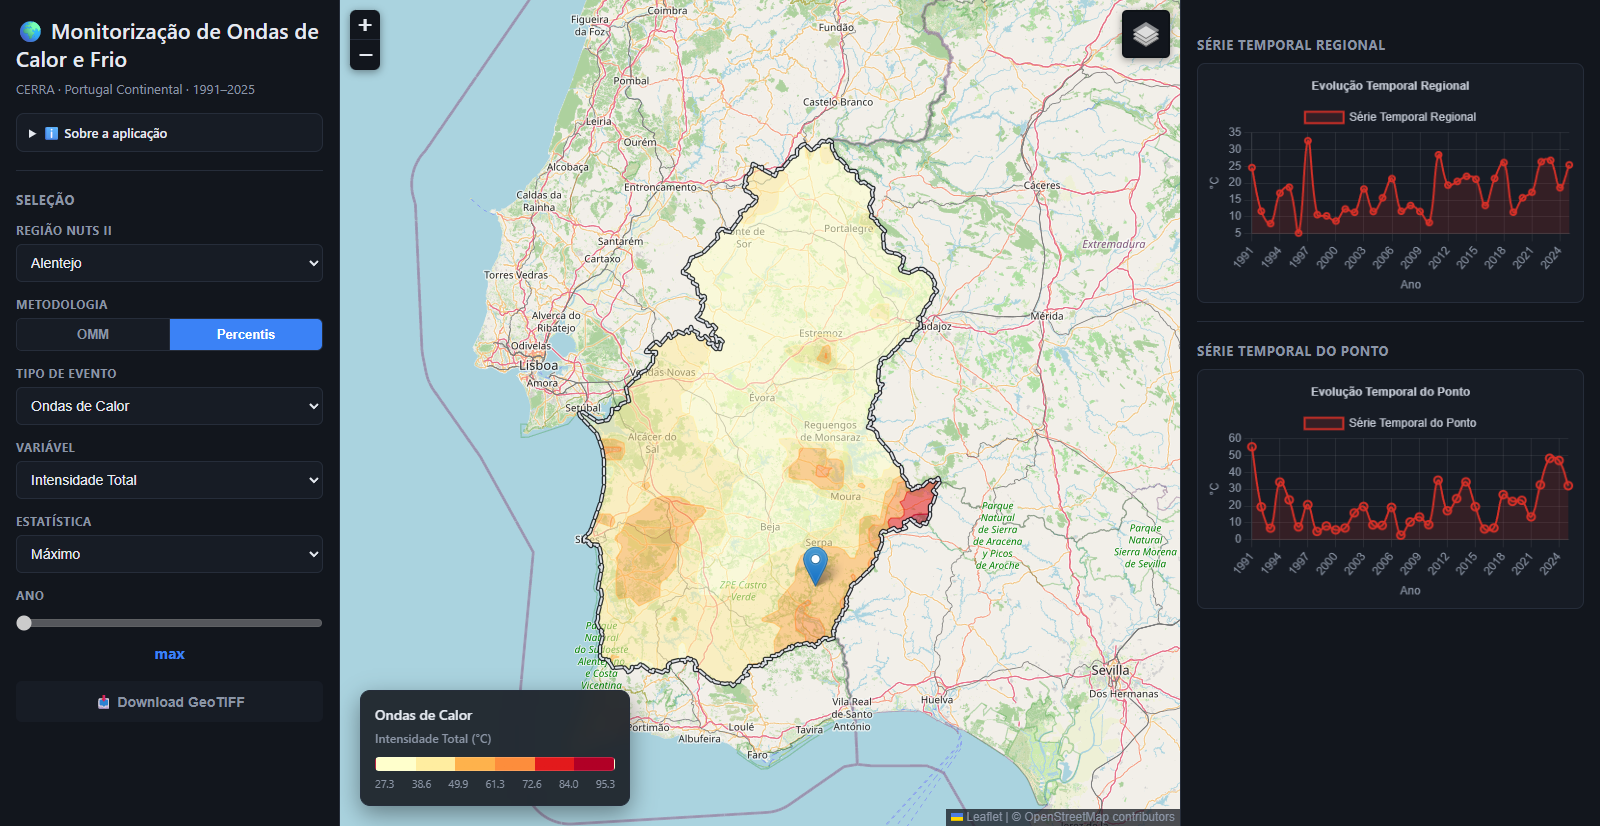
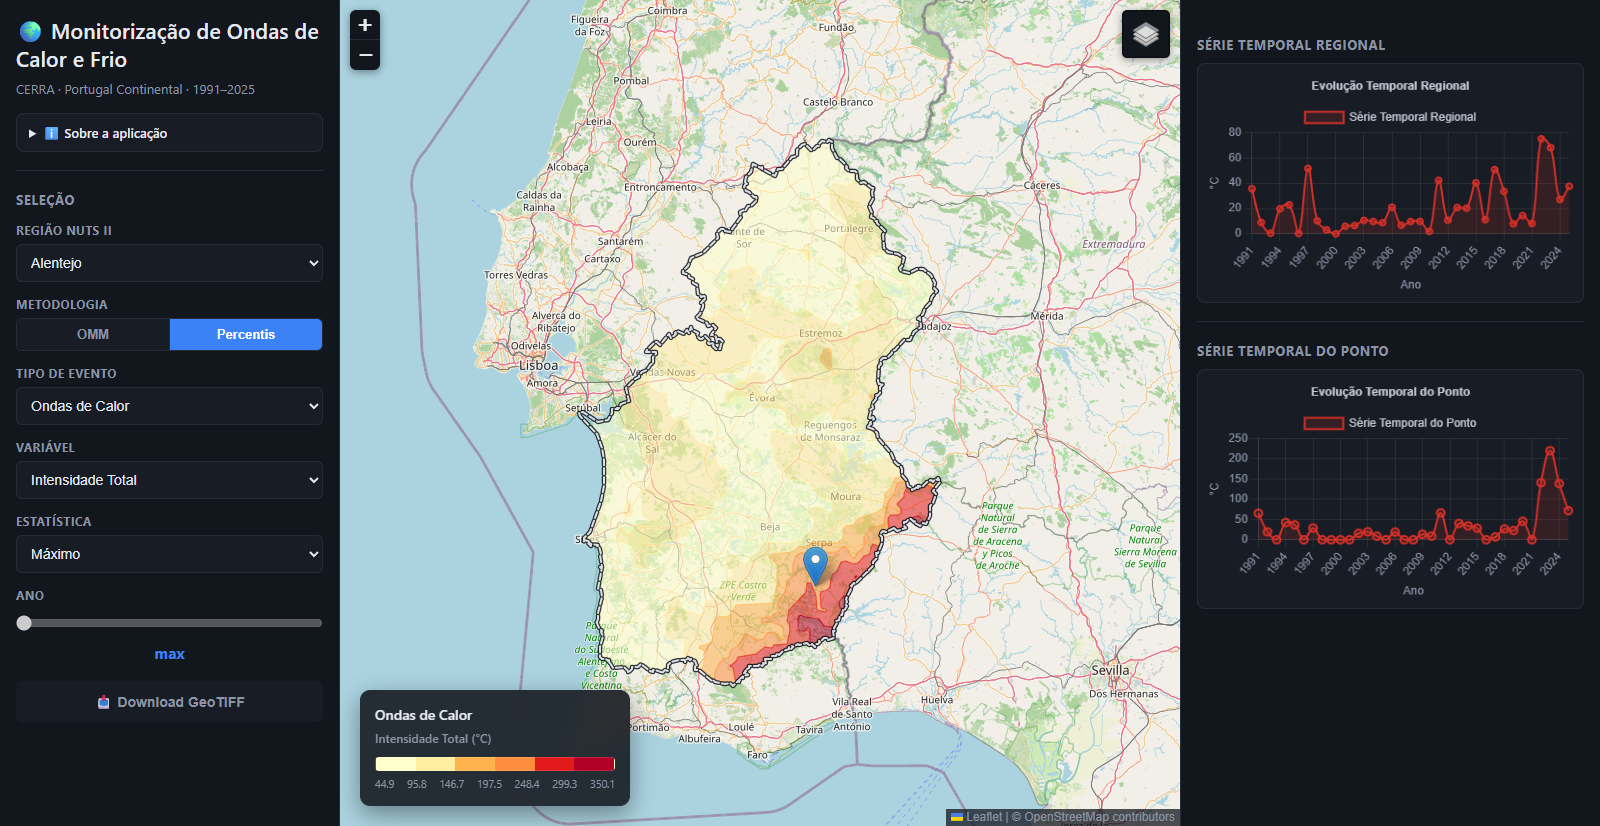
Retake screenshots after the land-mask fix; explain "Sem ondas"
Screenshots retaken from the updated demo (land-only data, neutral
"Sem ondas" colour, aligned intensidade_total). The Grande Lisboa
caption now explains the neutral areas and the gaps in its charts; a
feature bullet notes that "no waves" is shown distinct from zero.

diff --git a/README.md b/README.md
@@ -21,8 +21,10 @@ entre 1991 e 2025, a partir dos dados de reanálise **CERRA**
 **Ondas de frio (OMM) — intensidade máxima em 1998, Grande Lisboa**
 ![Ondas de frio, Grande Lisboa](images/cold-lisboa.png)
 
-Nos gráficos, a falha em 2002 é intencional: nesse ano não houve
-ondas de frio OMM, por isso a intensidade não existe (não é zero).
+A intensidade máxima só existe onde houve ondas: as zonas a
+cinzento-esverdeado não tiveram ondas de frio nesse ano, e nos gráficos
+os anos sem ondas aparecem como falhas — a intensidade não existe, não
+é zero. A água excluída (estuário do Tejo) fica sem cor.
 
 **Ondas de calor (Percentis) — intensidade total, máximo de longo prazo, Alentejo**
 ![Ondas de calor, Alentejo](images/heat-alentejo.png)
@@ -49,6 +51,8 @@ como isobandas coloridas, com legenda dinâmica e séries temporais
 - **Renderização por isobandas** — áreas vetoriais suaves entre
   isolinhas, com legenda em gradiente contínuo.
 - **Séries temporais** — evolução regional e no ponto clicado no mapa.
+- **"Sem ondas" distinto de zero** — onde não houve ondas, a
+  intensidade máxima aparece numa cor neutra própria, e não como zero.
 - **Basemaps alternativos** (escuro / claro / rua / híbrido).
 - **Layout responsivo** — mapa, controlos e gráficos adaptados a ecrã de
   telemóvel, incluindo suporte a toque e a orientação do ecrã.
